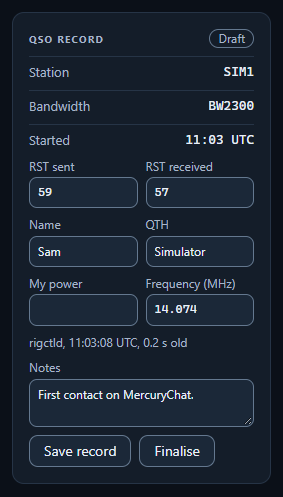
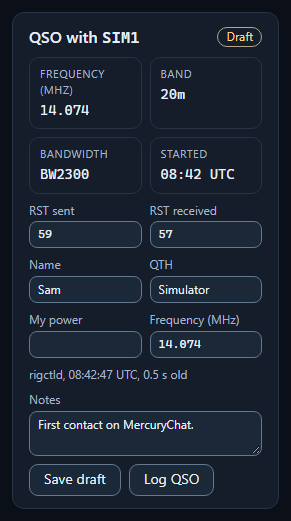
README, roadmap and screenshots for the current beta work
A public ROADMAP.md replaces the roadmap paragraph. The README states what is built and what is untested, drops its links into the unpublished planning docs, and shows new screenshots of the current layout.

diff --git a/README.md b/README.md
@@ -4,7 +4,7 @@ Open-source HF radio messaging for Windows and Linux, powered by the Mercury HF 
 
 Founded by ZS6SHZ. Updates: [releases](https://github.com/armysarge/mercurychat/releases).
 
-[![Status: Early alpha](https://img.shields.io/badge/status-early%20alpha-B45309)](#immediate-next-milestone)
+[![Status: Early alpha](https://img.shields.io/badge/status-early%20alpha-B45309)](ROADMAP.md)
 [![Platform: Windows and Linux](https://img.shields.io/badge/platform-Windows%20%7C%20Linux-24657D)](src-tauri/tauri.conf.json)
 [![License: GPL-3.0-or-later](https://img.shields.io/badge/license-GPL--3.0--or--later-31595F)](Cargo.toml)
 
@@ -14,61 +14,53 @@ Founded by ZS6SHZ. Updates: [releases](https://github.com/armysarge/mercurychat/
 [![TypeScript](https://img.shields.io/badge/TypeScript-frontend-3178C6?logo=typescript&logoColor=white)](https://www.typescriptlang.org/)
 [![SQLite](https://img.shields.io/badge/SQLite-storage-285771?logo=sqlite)](https://sqlite.org/)
 
-[Changelog](CHANGELOG.md) · [Modem lab](lab/README.md) · [CI workflow](.github/workflows/ci.yml) · [Report an issue](https://github.com/armysarge/mercurychat/issues)
+[Roadmap](ROADMAP.md) · [Changelog](CHANGELOG.md) · [Modem lab](lab/README.md) · [CI workflow](.github/workflows/ci.yml) · [Report an issue](https://github.com/armysarge/mercurychat/issues)
 
 > **Early alpha: under active development.** MercuryChat is not ready for on-air use. Nothing is released, interfaces and stored data may change without notice, and it has not been tested on air.
 
-**Roadmap:** a public beta for Windows and Linux is planned for **mid-December 2026**. It covers chat, CQ and beacons, the heard list, rig control and file transfer. The first stable release (1.0) is targeted for **February 2027**, after on-air field testing and Raspberry Pi qualification. These dates are targets, not promises.
+**Roadmap:** a public beta for Windows and Linux is planned for **mid-December 2026**, and 1.0 for **February 2027**. These dates are targets, not promises. See the [roadmap](ROADMAP.md).
 
-**Status:** M0 (modem-integration proof) closed 15 November 2026, with the Raspberry Pi run carried as an exception ([go/no-go note](docs/M0-go-no-go.md)); M1 (desktop foundation): the foundation is built (station profiles, migrations with backups, single-instance data locks, logs and crash reports, the typed command/event contract, and an in-process simulator modem the window runs on). M1 exits after the Raspberry Pi smoke test ([M1 progress](docs/M1-progress.md)). M2 (connected messaging) is built on branch `m2-chat`: calls and auto-answer over a real Mercury, MCH/1 negotiation, a durable outbox with end-to-end receipts and duplicate suppression, abort and recovery that mark unconfirmed messages uncertain instead of resending them, and the chat workspace (first-use setup, conversations, transcript, composer, session pane). Messages round-trip between the Windows app and Mercury on Linux, and over virtual audio cables on Windows. M3a (discovery and operator tools) is built on branch `m3a`: the heard list from CQs, beacons and sessions; Call CQ, Beacon now and opt-in periodic beacons behind an idle-only gate; listening by default with a Receive only switch; Mercury telemetry and an optional waterfall; a QSO card and Logbook; macros and history search; desktop notifications; and the Operate station strip. It was checked against two real Mercury modems over virtual audio cables ([M3 progress](docs/M3-progress.md)). M3b (rig control) is built on branch `m3b`: MercuryChat connects to the rigctld the operator runs, shared with Mercury, which keys PTT through it. The station strip is the rig panel (digit tuning, band, mode, the frequency list, Tune with a 30 s stop, per-band TX levels), every change is refused while busy, and PTT is cross-checked against Mercury. Settings is now in tabs, with a Rig tab holding a link test, the frequency list (suggested IARU entries per region), TX levels and an optional QSY schedule. It was checked against two real Mercury modems keying a Hamlib dummy rig in Docker. None of it is yet tested on air or on a Raspberry Pi. No radio transmissions have been made. Progress, evidence and open items: [docs/M0-progress.md](docs/M0-progress.md); how to reproduce: [lab/README.md](lab/README.md).
+**Status:** the beta features are built and tested against a built-in simulator, real Mercury modems over virtual audio and Hamlib dummy rigs. No radio transmissions have been made, and rig control has not been tried on a real radio. Raspberry Pi testing is still to be done. Before the beta come a security and optimization audit and a clean install test on Windows.
+
+## Features
+
+- **Chat** with calls and auto-answer, a saved outbox and delivery receipts from the other station. After a failure, unconfirmed messages are marked uncertain and are not resent by themselves.
+- **Discovery:** CQ, opt-in beacons, short broadcast messages and a heard list. No broadcast is ever shown as confirmed received.
+- **Files:** the receiver accepts or declines first. Files are compressed, photos are shrunk with their metadata removed, and a file that fails its checksum is not saved.
+- **Rig control:** the bundled or your own Hamlib `rigctld`, FLRig, or built-in CAT control with importable command files (Icom IC-7300, Yaesu FT-991A and Kenwood TS-590S/SG included).
+- **Station tools:** QSO logging with ADIF and CSV export, QSY proposals, SNR and station information requests, macros, history search and notifications.
+- **Setup:** a built-in Mercury modem or your own, a first-run wizard and a diagnostics file.
+- **Languages:** English, Spanish, French and Brazilian Portuguese.
 
 ## At a glance
 
-These screenshots come from the real app running on its built-in simulator, with the demo callsign N0CALL. `scripts/screenshots.mjs` produces them, so they are never captured by hand.
+These screenshots come from the real Windows app running on its built-in simulator, with the demo callsign N0CALL. `scripts/screenshots.mjs` produces them, so they are never captured by hand.
 
-![The Operate view in the Midnight theme: station strip, heard stations, a connected chat with SIM1 and the session pane](design/screenshots/operate-dark.png)
+![The Operate view in the Midnight theme: heard stations, a connected chat with SIM1 and the QSO record](design/screenshots/operate-dark.png)
 
-| QSO card | Logbook |
+![The idle station home: the frequency dial, band buttons, CQ and beacon cards, and SIM1 in the heard list](design/screenshots/station-home.png)
+
+![A connected chat in the Daylight theme, with the chat list and the filled-in QSO record](design/screenshots/operate-light.png)
+
+| QSO record | Logbook |
 | --- | --- |
-| ![The QSO record for a session with SIM1: RST, name, QTH and notes](design/screenshots/qso-card.png) | ![The Logbook listing a draft record for SIM1](design/screenshots/logbook.png) |
+| ![The QSO record for a session with SIM1: frequency, band, RST, name, QTH and notes](design/screenshots/qso-card.png) | ![The Logbook listing a draft record for SIM1, with ADIF export](design/screenshots/logbook.png) |
 
-![Settings, Rig tab: the shared rigctld address, a link test with every step passing, and the suggested frequency list](design/screenshots/settings-rig.png)
+![Settings, Station tab: station information and what is shared with other stations](design/screenshots/settings-station.png)
+
+![Settings, Rig tab: the external rigctld address and a link test with every step passing](design/screenshots/settings-rig.png)
 
 ## Design aim
 
 MercuryChat should feel like the chat apps people already use every day: a conversation list, message bubbles, a composer that is always ready, and clear delivery status. It should not feel like a wall of modem controls. Radio detail is there when you want it and out of the way when you don't. Screens stay calm and uncluttered, readable at a glance, and friendly to newcomers, while experienced operators keep the controls they rely on.
 
-## Decisions confirmed with the owner
+## How it is built
 
-- Windows and Ubuntu/Debian-family Linux desktop app with a modern, polished interface.
-- Raspberry Pi/Linux ARM64 support is required for Core 1.0; Pi 4/5 with a 64-bit OS are the proposed qualification targets.
-- Initial modem tests use two crossed virtual audio routes, with physical PTT disabled.
-- VarAC-inspired operating workflows, using Mercury as the modem.
-- Open-source distribution.
-- Core features first: connected chat, CQ/beacons, heard stations, file transfers and QSO logging.
-- Support both managed local Mercury and an existing local or remote Mercury installation.
+MercuryChat is a Tauri 2 desktop app with a Vue 3 and TypeScript interface, Rust application services and SQLite storage. The Mercury modem runs as a separate program, controlled over TCP on your own computer or on a host you choose. Release packages include their own copy.
 
-## Read in this order
+MercuryChat talks to other MercuryChat stations. Mercury's VARA-like host interface does not make it compatible with VARA on air, or with VarAC. No VarAC code, assets or proprietary formats are used.
 
-1. [Product specification](docs/01-product-specification.md)
-2. [Architecture and technology decisions](docs/02-architecture.md)
-3. [Mercury integration and proposed application protocol](docs/03-modem-and-protocol.md)
-4. [Interface and experience specification](docs/04-ui-specification.md)
-5. [Implementation roadmap and acceptance gates](docs/05-implementation-plan.md)
-6. [Evidence, risks and open decisions](docs/06-evidence-and-decisions.md)
-7. [Virtual audio and Raspberry Pi qualification](docs/07-virtual-audio-and-raspberry-pi.md)
-
-The technology selection, protocol draft, support matrix and estimates are proposals. The product choices above are confirmed; exact Pi model, memory floor and OS versions remain qualification targets. Implementation milestones are subsequent work; this phase delivers their specification.
-
-## Proposed technical direction
-
-Tauri 2 desktop shell, Vue 3 + TypeScript interface, Rust application services and SQLite persistence. Mercury runs as a separate process with a tested, pinned version. TCP provides modem control, connected data and broadcasts; optional WebSocket telemetry supplies audio health and spectrum information.
-
-MercuryChat-to-MercuryChat interoperability is the initial target. A VARA-like host interface does not make Mercury's waveform compatible with VARA, and it does not establish compatibility with VarAC's application protocol. No VarAC code, assets or proprietary formats are incorporated in this plan.
-
-## Immediate next milestone
-
-M3c: operator extras (QSY proposals, information requests, extended beacons). The Raspberry Pi smoke test carried from M0 ([go/no-go note](docs/M0-go-no-go.md)) is still open: M1, M2, M3a and M3b exit on the Pi when it passes.
+Third-party components and their licences are listed in [THIRD-PARTY.md](THIRD-PARTY.md). To work with the modem lab, see [lab/README.md](lab/README.md).
 
 ## Regenerate the app icons
 

diff --git a/ROADMAP.md b/ROADMAP.md
@@ -1,0 +1,53 @@
+# MercuryChat roadmap
+
+MercuryChat is an early alpha. Nothing is released yet and it has not been tested on air. The dates below are targets, not promises.
+
+| Release | Target |
+| --- | --- |
+| Public beta (Windows and Linux) | Mid-December 2026 |
+| 1.0 | February 2027 |
+
+## Built so far
+
+- **Chat:** calls and auto-answer, a saved outbox, delivery receipts from the other station, and recovery that marks unconfirmed messages as uncertain instead of resending them.
+- **Discovery:** CQ, beacons, short broadcast messages and the heard list.
+- **Station tools:** QSO logging with ADIF and CSV export, macros, history search and desktop notifications.
+- **Rig control:** the bundled or your own Hamlib `rigctld`, FLRig, or MercuryChat's own CAT control with importable command files. PTT is cross-checked against the modem.
+- **Operator extras:** QSY proposals, SNR and station information requests, and extended beacons.
+- **Files:** consent before receiving, compression, photo shrinking and a checksum on every received file.
+- **Packaging:** a built-in Mercury modem, a first-run wizard, a diagnostics file, a Windows installer, and `.deb` and Arch packages.
+
+## Before the public beta
+
+- A security and optimization audit.
+- A clean install test of the Windows installer.
+
+## Before 1.0
+
+- **Encryption and signed messages**, built right after the beta so that field testing covers them. Encryption is opt-in per contact or group and never on by default. Encrypting amateur radio traffic is illegal in most countries: MercuryChat will say so and require you to acknowledge it, and lawful use is your responsibility.
+- **Field testing on air** between two stations with real radios, including longer sessions on links of varying quality.
+- **Modem benchmark:** Mercury against VARA HF over the same simulated channels.
+- **Raspberry Pi (ARM64)** testing and packages.
+- Signed or automatic updates are not built yet and are not yet scheduled.
+
+## After 1.0
+
+In planned order. Each item needs its own protocol proposal and tests before it ships.
+
+1. **Animated tour** of the app for new users.
+2. **Network station service:** your station (the desktop app, or a Raspberry Pi with no screen) can be controlled from another device over an encrypted connection. Devices are paired with a QR code and can be revoked. The modem's own ports are never exposed.
+3. **MercuryChat Mobile:** an Android app first, then iOS, working as a remote screen for your station. The radio, modem and audio stay with the station.
+4. **MercuryMail:** addressed mail that is delivered later, with mailbox limits, expiry and delivery states, kept separate from chat.
+5. **Relay:** opt-in passing of messages through other stations, with a hop limit, expiry and receipts.
+6. **GPS, world map and spotting:**
+   - **GPS device:** connect a GPS receiver for your own station's position.
+   - **World map:** the stations you have contacted and heard, with a date picker that starts on today.
+   - **Positions:** each callsign is placed from a GPS position when one is known, otherwise from its grid locator. Email and AI gateway stations appear as pins on the map.
+   - **PSK Reporter:** report the stations you hear to PSK Reporter. This sends data over the internet, so it will be off until you turn it on.
+7. **Other integrations:** logging programs, forms and an email gateway, each as a separate option with its own internet permission.
+8. **Frequency slots:** first dial-offset slots set through rig control, later audio slots inside the passband, which need a change to Mercury.
+9. **User manual:** a PDF with screenshots generated from the app.
+
+## After everything above
+
+- **Games over the air:** turn-based games between two stations, such as tic-tac-toe, battleships and chess.
